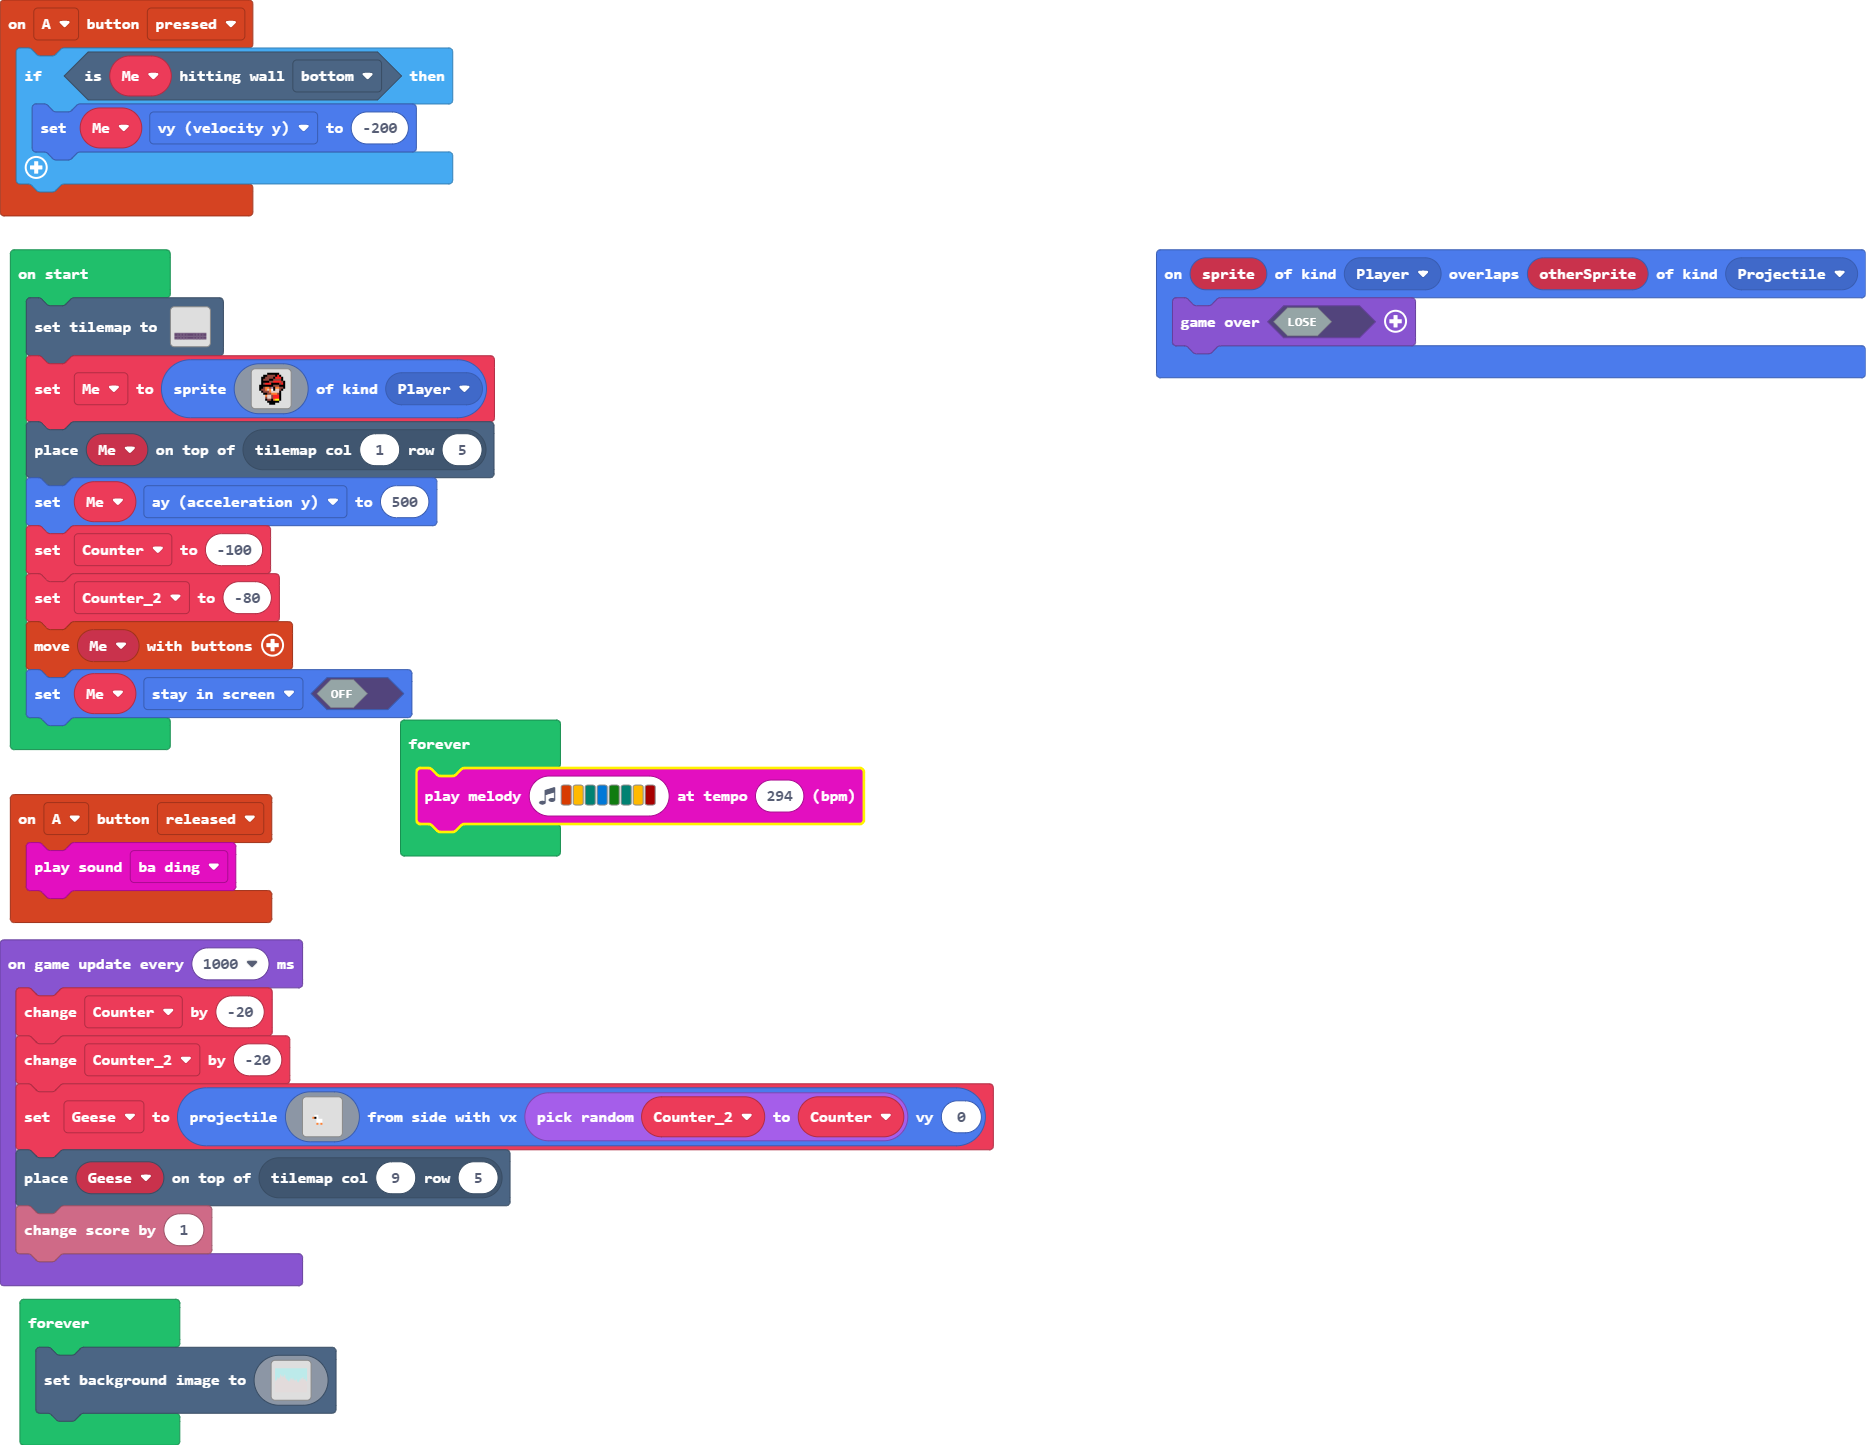
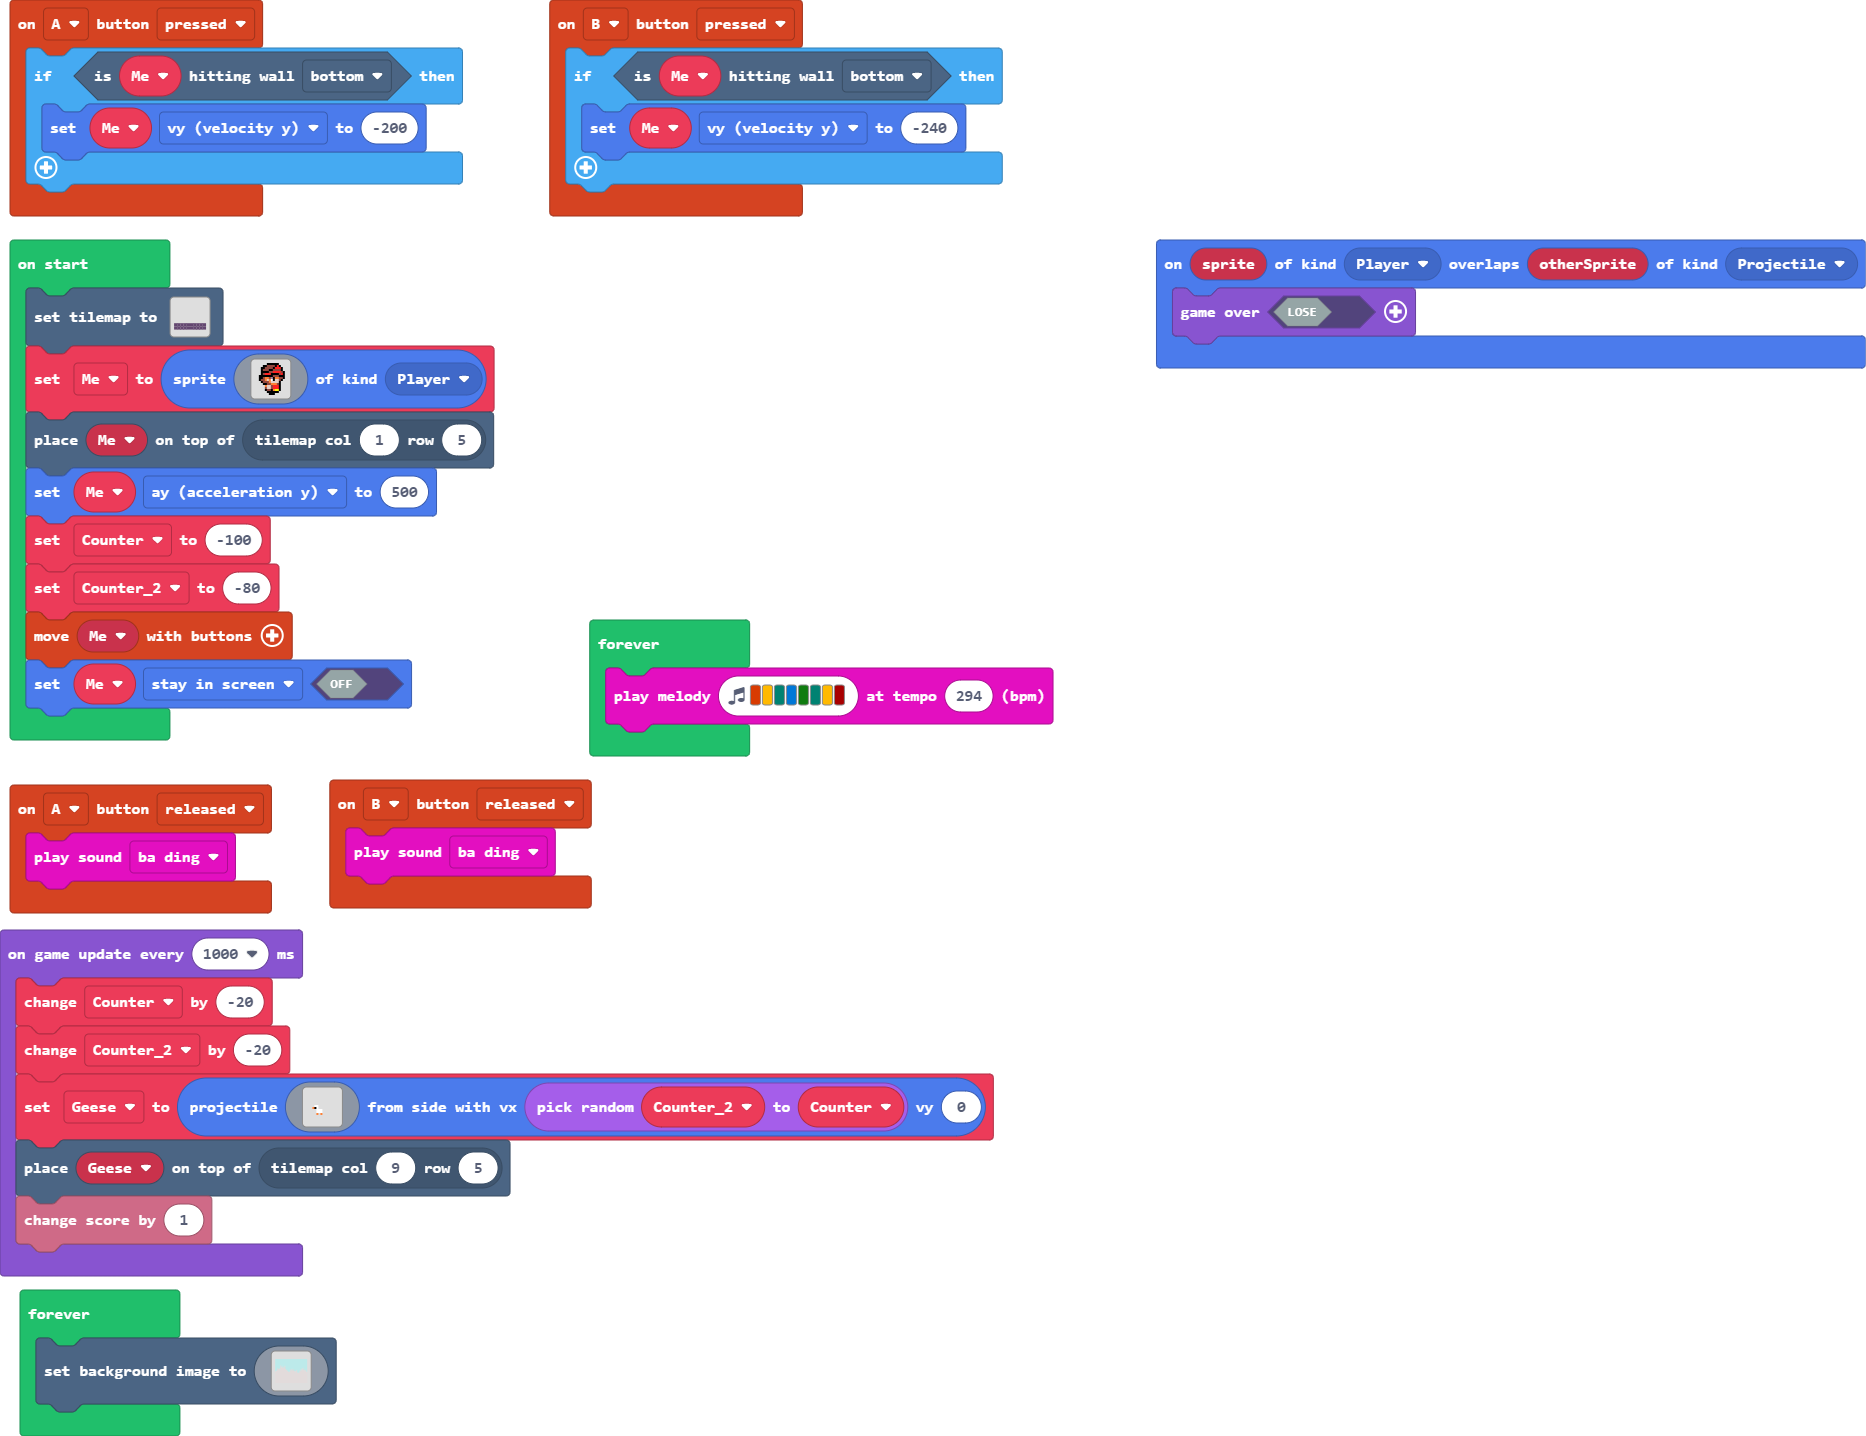
Update main.blocks, main.ts, tilemap.g.jres, tilemap.g.ts

diff --git a/tilemap.g.ts b/tilemap.g.ts
@@ -3,5 +3,31 @@ namespace myTiles {
     //% fixedInstance jres blockIdentity=images._tile
     export const transparency16 = image.ofBuffer(hex``);
 
+    helpers.registerTilemapFactory(function(name: string) {
+        switch(helpers.stringTrim(name)) {
[1 lines of base64/hex data omitted]
+. . . . . . . . . . 
+. . . . . . . . . . 
+. . . . . . . . . . 
+. . . . . . . . . . 
+. . . . . . . . . . 
+. . . . . . . . . . 
+2 2 2 2 2 2 2 2 2 2 
+2 2 2 2 2 2 2 2 2 2 
+`, [myTiles.transparency16,sprites.dungeon.darkGroundNorth], TileScale.Sixteen)
[1 lines of base64/hex data omitted]
+. . . . . . . . . . 
+. . . . . . . . . . 
+. . . . . . . . . . 
+. . . . . . . . . . 
+. . . . . . . . . . 
+. . . . . . . . . . 
+2 2 2 2 2 2 2 2 2 2 
+2 2 2 2 2 2 2 2 2 2 
+`, [myTiles.transparency16,sprites.dungeon.darkGroundNorth], TileScale.Sixteen)
+        }
+        return null;
+    })
+
 }
 // Auto-generated code. Do not edit.

diff --git a/main.ts b/main.ts
@@ -1,3 +1,8 @@
+controller.B.onEvent(ControllerButtonEvent.Pressed, function () {
+    if (Me.isHittingTile(CollisionDirection.Bottom)) {
+        Me.vy = -240
+    }
+})
 controller.A.onEvent(ControllerButtonEvent.Pressed, function () {
     if (Me.isHittingTile(CollisionDirection.Bottom)) {
         Me.vy = -200
@@ -7,6 +12,9 @@ sprites.onOverlap(SpriteKind.Player, SpriteKind.Projectile, function (sprite, ot
     game.over(false)
 })
 controller.A.onEvent(ControllerButtonEvent.Released, function () {
+    music.baDing.play()
+})
+controller.B.onEvent(ControllerButtonEvent.Released, function () {
     music.baDing.play()
 })
 let Geese: Sprite = null
